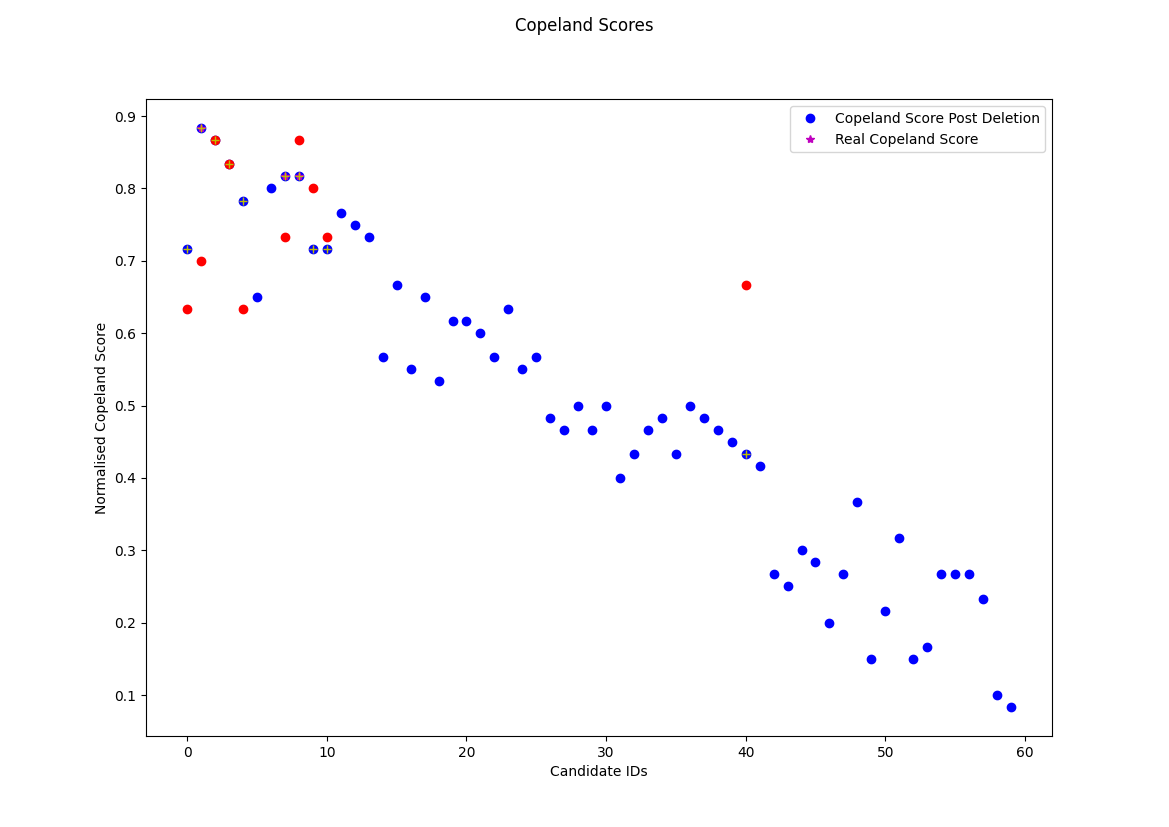
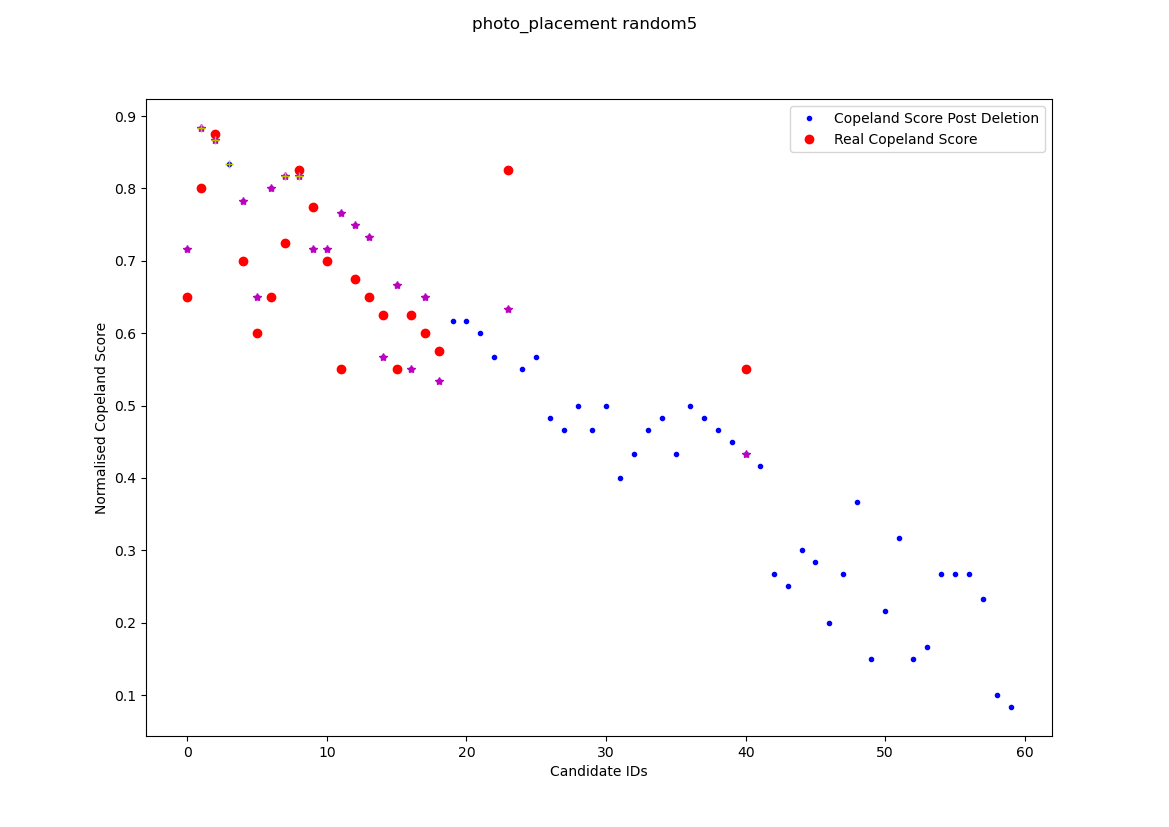
update

diff --git a/deletion_copeland.py b/deletion_copeland.py
@@ -31,13 +31,18 @@ def copelandWrapper(preference_profile_segment, surviving_candidates):
     # Takes the highest x candidates
     to_be_kept = sorted_copeland_score[no_of_deleted_candidates:]
     assert len(sorted_copeland_score) == len(copeland_score) == preference_profile_segment.shape[0]
-    preference_profile_segment = [preference_profile_segment[x] for x in to_be_kept] #[i for x, i in enumerate(preference_profile_segment) if x not in to_be_deleted]
-    copeland_score = [copeland_score[x] for x in to_be_kept] #[i for x, i in enumerate(copeland_score) if x not in to_be_deleted]
+    preference_profile_segment = [preference_profile_segment[x] for x in to_be_kept]
+    copeland_score = [copeland_score[x] for x in to_be_kept]
     assert len(preference_profile_segment) == len(copeland_score)
     return (preference_profile_segment, copeland_score)
 
-def benchmark(indexes, deletion_copeland_scores, copeland_scores):
-    pass
+def score_comparison(indexes, deletion_copeland_scores, copeland_scores):
+    deletion_winner_cs = max(deletion_copeland_scores) # Copeland winner of deletion algorithm
+    id_of_deletion_winner = indexes[deletion_copeland_scores.index(deletion_winner_cs)] # ID of Copeland winner of deletion algorithm 
+    ground_truth_score_of_deletion_winner = copeland_scores[id_of_deletion_winner] # Ground Truth Copeland Score of defined ID
+    ground_truth_winner_cs = max(copeland_scores) # Ground Truth Copeland Winner
+    print("        GT Winner vs Deletion Winner(on GT)       :"+ str(ground_truth_winner_cs / ground_truth_score_of_deletion_winner))
+    print("        Deletion Winner(on GT) vs Deletion Winner :"+ str(deletion_winner_cs / ground_truth_score_of_deletion_winner))
 
 def deletionCopeland(preference_profile, step, surviving_candidates):
     # Processing the data.
@@ -103,7 +108,6 @@ def plot(directory, filename, step, surviving_candidates, show_plots_during_exec
     # Relative Copeland Score
     true_copeland_score = [i/candidates for i in true_copeland_score]
     pickled_file.close()
-
     ipp, cs = deletionCopeland(
         preference_profile, step, surviving_candidates)
     cs = [i/(step+surviving_candidates) for i in cs]
@@ -111,16 +115,15 @@ def plot(directory, filename, step, surviving_candidates, show_plots_during_exec
     winners_index = np.argsort(true_copeland_score)[-5:].tolist()
     winners_value = [true_copeland_score[x] for x in winners_index]
     true_copeland_score_deletion_labels = [true_copeland_score[i] for i in not_deleted_candidate_ids]    
+    score_comparison(not_deleted_candidate_ids, cs, true_copeland_score)
     
     fig, (ax1) = plt.subplots(1)
-    fig.suptitle('Copeland Scores')
+    fig.suptitle(directory + ' ' + filename)
     fig.set_size_inches(11.69, 8.27)
-    ax1.plot(true_copeland_score, 'bo')
-    ax1.plot(winners_index, winners_value, 'm*')
+    ax1.plot(true_copeland_score, 'b.')
     ax1.plot(not_deleted_candidate_ids, cs, 'ro')
-    ax1.plot(not_deleted_candidate_ids, true_copeland_score_deletion_labels, 'y+')
-    # encircled_true_copeland_scores = []
-    # ax1.plot(, true_copeland_score, 'ro')
+    ax1.plot(not_deleted_candidate_ids, true_copeland_score_deletion_labels, 'm*')
+    ax1.plot(winners_index, winners_value, 'y+')
     ax1.legend(['Copeland Score Post Deletion', 'Real Copeland Score'])
     ax1.set_xlabel('Candidate IDs')
     ax1.set_ylabel('Normalised Copeland Score')
@@ -162,13 +165,13 @@ def plot_gif(directory, filename, step, surviving_candidates):
         cs = familycs[i]
         cs = [j/(step+surviving_candidates) for j in cs]
         assert len(cs) == len(not_deleted_candidate_id)
-        fig.suptitle('Copeland Scores')
+        fig.suptitle(directory + ' ' + filename)
         fig.set_size_inches(11.69, 8.27)
         ax1.set_ylim(-0.1, 1.1)
         ax1.plot(true_copeland_score, 'bo')
-        ax1.plot(winners_index, winners_value, 'm*')
+        ax1.plot(winners_index, winners_value, 'y+')
         ax1.plot(not_deleted_candidate_id, cs, 'ro')
-        ax1.plot(not_deleted_candidate_id, true_copeland_score_deletion_labels, 'y+')
+        ax1.plot(not_deleted_candidate_id, true_copeland_score_deletion_labels, 'm*')
         ax1.legend(['Real Copeland Score', 'Copeland Score Post Deletion'])
         ax1.set_xlabel('Candidate IDs')
         ax1.set_ylabel('Normalised Copeland Score')
@@ -194,18 +197,18 @@ if __name__ == "__main__":
     PLOT_GIFS = True
     benchmarks = ["project_assignment", "photo_placement"]
     step = 20
-    surviving_candidates = 10
+    surviving_candidates = 20
     profile_types = ["inverted", "normal", "random", "search_more"]
     for benchmark in benchmarks:
         print("🟢 Running " + benchmark)
         for i in ['1', '2', '3', '4', '5', '6']:  # , '1','2','3','4', '5', '6'
             for profile_type in profile_types:
                 try:
+                    print("    " + profile_type+str(i))
                     plot(benchmark, profile_type+str(i), step,
                             surviving_candidates, SHOW_PLOTS_DURING_EXECUTION)
                     plot_gif(benchmark, profile_type+str(i),
                                 step, surviving_candidates)
-                    print("    " + profile_type+str(i))
                 except Exception as e:
                     # print(e)
                     None
